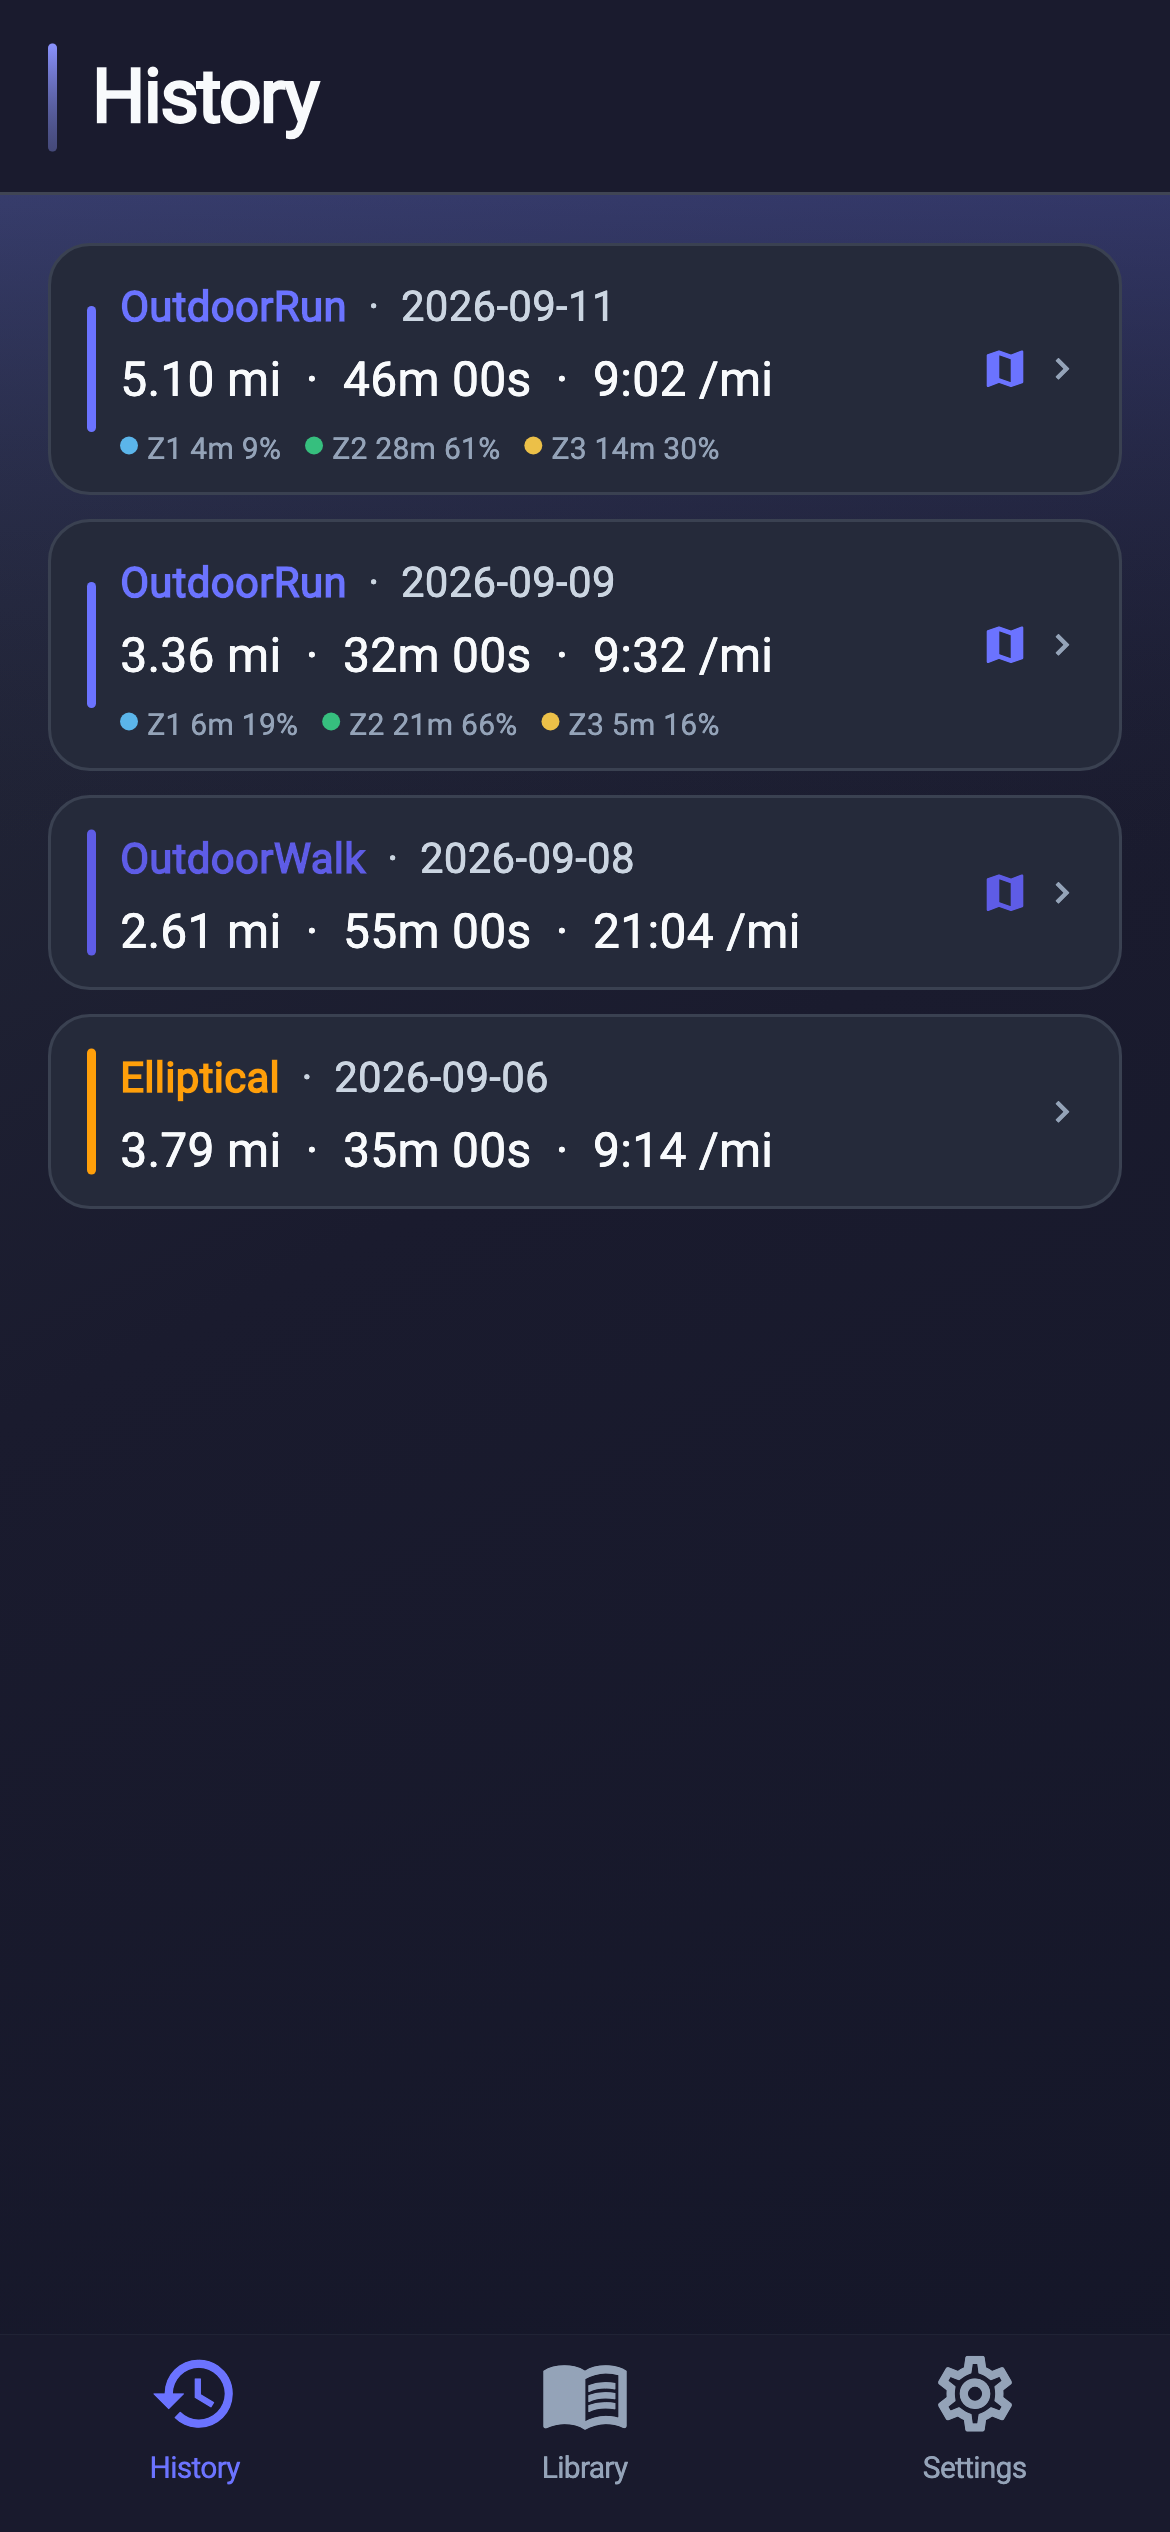
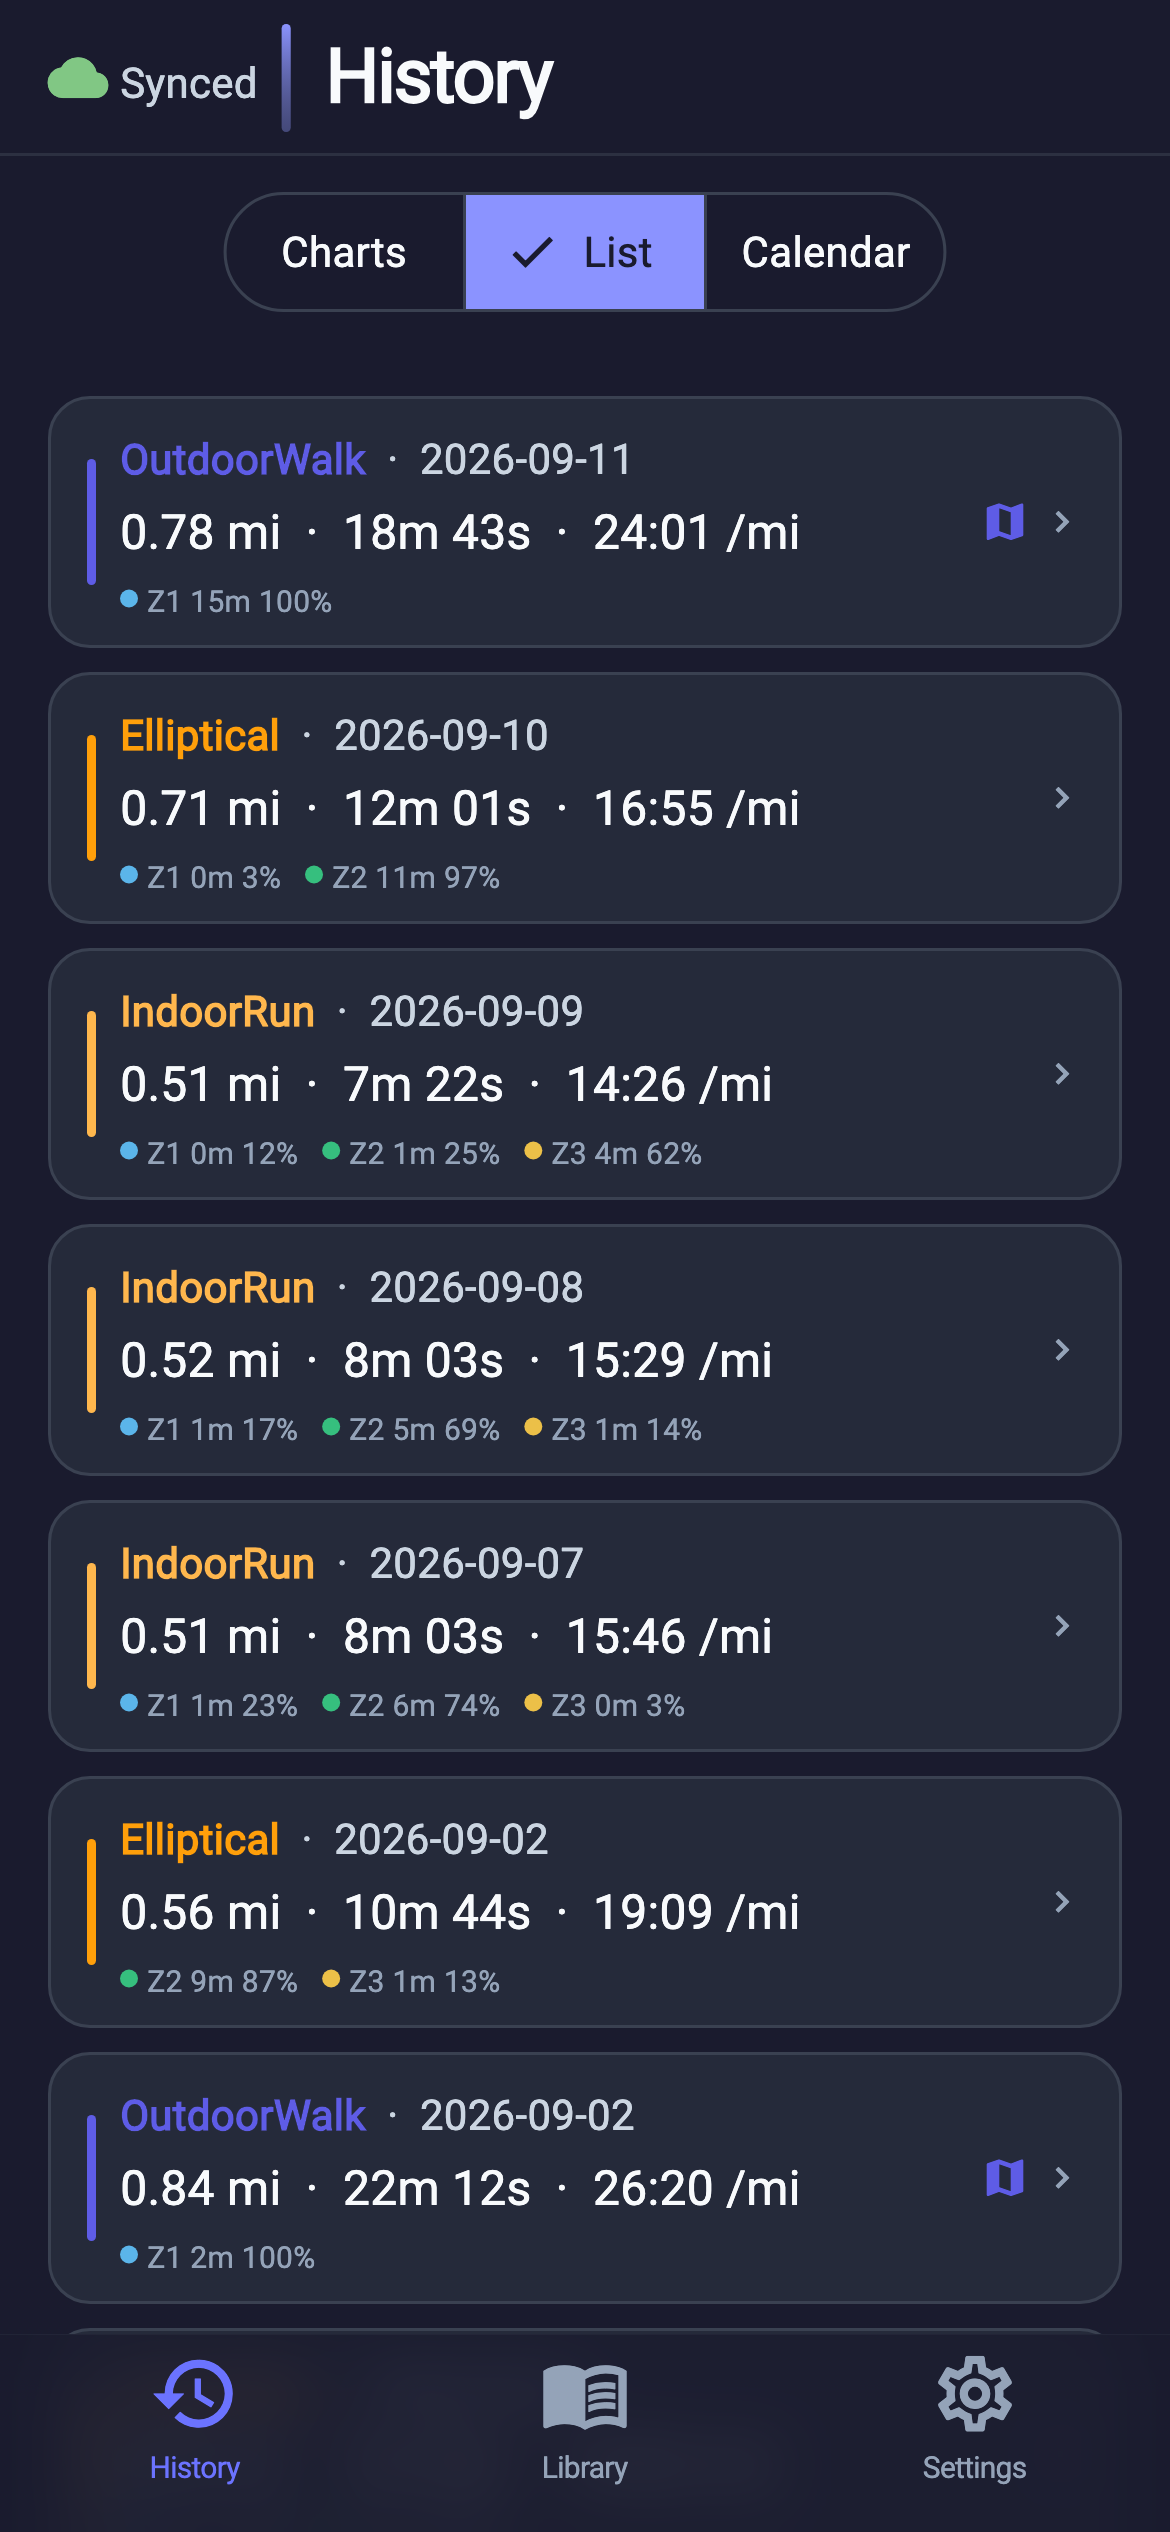
Show real History charts, list, and calendar in the README screenshots.

diff --git a/test/readme_screenshot_generator_test.dart b/test/readme_screenshot_generator_test.dart
@@ -1,48 +1,95 @@
+import 'dart:convert';
+import 'dart:io';
+
 import 'package:ethan_ui/ethan_ui.dart';
 import 'package:flutter/foundation.dart';
 import 'package:flutter/material.dart';
 import 'package:flutter_riverpod/flutter_riverpod.dart';
 import 'package:flutter_test/flutter_test.dart';
-import 'package:workouts/features/history/activity_list/history_activity_list_tab.dart';
+import 'package:workouts/features/cardio/cardio_provider.dart';
 import 'package:workouts/features/history/activity_provider.dart';
+import 'package:workouts/features/history/history_screen.dart';
+import 'package:workouts/models/activity_calendar_day.dart';
 import 'package:workouts/models/activity_item.dart';
-import 'package:workouts/models/cardio_type.dart';
+import 'package:workouts/models/cardio_best_effort.dart';
+import 'package:workouts/models/cardio_calendar_day.dart';
 import 'package:workouts/models/cardio_workout.dart';
 import 'package:workouts/models/hr_zone_time.dart';
+import 'package:workouts/providers/sync_provider.dart';
 import 'package:workouts/services/powersync/powersync_database_provider.dart';
+import 'package:workouts/utils/run_formatting.dart';
 
 const _phoneSize = Size(390, 844);
+
+late _LocalHistorySnapshot _readmeHistory;
 
 void main() {
   setUpAll(() async {
     await ETheme.loadFontsForWidgetTests();
+    _readmeHistory = _LocalHistorySnapshot.load();
   });
 
-  testWidgets('writes history list for README', (tester) async {
-    debugDefaultTargetPlatformOverride = TargetPlatform.iOS;
-    addTearDown(() => tester.binding.setSurfaceSize(null));
-    await tester.binding.setSurfaceSize(_phoneSize);
+  testWidgets('writes History charts for README', (tester) async {
+    await _writeHistoryReadmeScreenshot(
+      tester,
+      screenshotFilename: 'history-charts.png',
+    );
+  });
 
-    try {
+  testWidgets('writes History list for README', (tester) async {
+    await _writeHistoryReadmeScreenshot(
+      tester,
+      tabLabel: 'List',
+      screenshotFilename: 'history.png',
+    );
+  });
+
+  testWidgets('writes History calendar for README', (tester) async {
+    await _writeHistoryReadmeScreenshot(
+      tester,
+      tabLabel: 'Calendar',
+      screenshotFilename: 'history-calendar.png',
+    );
+  });
+}
+
+Future<void> _writeHistoryReadmeScreenshot(
+  WidgetTester tester, {
+  String? tabLabel,
+  required String screenshotFilename,
+}) async {
+  debugDefaultTargetPlatformOverride = TargetPlatform.iOS;
+  addTearDown(() => tester.binding.setSurfaceSize(null));
+  await tester.binding.setSurfaceSize(_phoneSize);
+
+  try {
     await tester.pumpWidget(
       ProviderScope(
         overrides: [
           activityListProvider.overrideWith(
-            (ref) => Stream.value(_overviewCardio()),
+            (ref) => Stream.value(_readmeHistory.activityList),
+          ),
+          activityCalendarDaysProvider.overrideWith(
+            (ref) => Stream.value(_readmeHistory.calendarDays),
+          ),
+          cardioWorkoutsProvider.overrideWith(
+            (ref) => Stream.value(_readmeHistory.cardioWorkouts),
+          ),
+          cardioBestEffortsProvider.overrideWith(
+            (ref) => Stream.value(_readmeHistory.bestEfforts),
           ),
           powerSyncDatabaseProvider.overrideWith(
-            (ref) => Future<Never>.error(StateError('unused in README screenshot')),
+            (ref) => Future<Never>.error(
+              StateError('unused in README screenshot'),
+            ),
           ),
+          syncStateProvider.overrideWith((ref) => SyncState.synced),
         ],
         child: MaterialApp(
           theme: ETheme.material3Dark,
           debugShowCheckedModeBanner: false,
           home: EScaffoldShell(
             contentMaxWidth: double.infinity,
-            appBar: const EAppHeader(
-              title: 'History',
-              automaticallyImplyLeading: false,
-            ),
             bottomBar: ETabBar(
               selectedIndex: 0,
               tabs: const [
@@ -52,82 +99,178 @@ void main() {
               ],
               onSelected: (_) {},
             ),
-            body: const HistoryActivityListTab(),
+            body: const ColoredBox(
+              color: EColors.background,
+              child: HistoryScreen(),
+            ),
           ),
         ),
       ),
     );
     await tester.pumpAndSettle();
+    if (tabLabel != null) {
+      await tester.tap(find.text(tabLabel));
+      await tester.pumpAndSettle();
+    }
     await expectLater(
       find.byType(MaterialApp),
-      matchesGoldenFile('../screenshots/history.png'),
+      matchesGoldenFile('../screenshots/$screenshotFilename'),
     );
-    } finally {
-      debugDefaultTargetPlatformOverride = null;
-    }
-  });
+  } finally {
+    debugDefaultTargetPlatformOverride = null;
+  }
 }
 
-List<ActivityItem> _overviewCardio() {
-  return [
-    ActivityCardio(
-      CardioWorkout(
-        id: 'run-1',
-        externalWorkoutId: 'ext-run-1',
-        activityType: CardioType.outdoorRun,
-        startedAt: DateTime(2026, 9, 11, 6, 32),
-        endedAt: DateTime(2026, 9, 11, 7, 18),
-        durationSeconds: 46 * 60,
-        distanceMeters: 8200,
-        averageHeartRateBpm: 148,
-        hasHrSamples: true,
-        zoneTime: const HrZoneTime(zone1: 240, zone2: 1680, zone3: 840),
-        routeAvailable: true,
-        sourceName: 'Apple Watch',
-      ),
-    ),
-    ActivityCardio(
-      CardioWorkout(
-        id: 'run-2',
-        externalWorkoutId: 'ext-run-2',
-        activityType: CardioType.outdoorRun,
-        startedAt: DateTime(2026, 9, 9, 6, 40),
-        endedAt: DateTime(2026, 9, 9, 7, 12),
-        durationSeconds: 32 * 60,
-        distanceMeters: 5400,
-        averageHeartRateBpm: 142,
-        hasHrSamples: true,
-        zoneTime: const HrZoneTime(zone1: 360, zone2: 1260, zone3: 300),
-        routeAvailable: true,
-        sourceName: 'Apple Watch',
-      ),
-    ),
-    ActivityCardio(
-      CardioWorkout(
-        id: 'walk-1',
-        externalWorkoutId: 'ext-walk-1',
-        activityType: CardioType.outdoorWalk,
-        startedAt: DateTime(2026, 9, 8, 18, 10),
-        endedAt: DateTime(2026, 9, 8, 19, 5),
-        durationSeconds: 55 * 60,
-        distanceMeters: 4200,
-        routeAvailable: true,
-        sourceName: 'Apple Watch',
-      ),
-    ),
-    ActivityCardio(
-      CardioWorkout(
-        id: 'ellip-1',
-        externalWorkoutId: 'ext-ellip-1',
-        activityType: CardioType.elliptical,
-        startedAt: DateTime(2026, 9, 6, 7, 0),
-        endedAt: DateTime(2026, 9, 6, 7, 35),
-        durationSeconds: 35 * 60,
-        distanceMeters: 6100,
-        averageHeartRateBpm: 131,
-        routeAvailable: false,
-        sourceName: 'Apple Watch',
-      ),
-    ),
+class _LocalHistorySnapshot {
+  const _LocalHistorySnapshot({
+    required this.cardioWorkouts,
+    required this.calendarDays,
+    required this.bestEfforts,
+  });
+
+  final List<CardioWorkout> cardioWorkouts;
+  final List<ActivityCalendarDay> calendarDays;
+  final List<CardioBestEffort> bestEfforts;
+
+  List<ActivityItem> get activityList => [
+    for (final workout in cardioWorkouts) ActivityCardio(workout),
   ];
+
+  static _LocalHistorySnapshot load() {
+    final dbPath = _mostRecentlyWrittenPowerSyncFile().path;
+    final workouts = _query(dbPath, _cardioWorkoutsSql)
+        .map(_intsFromSqliteJson)
+        .map(CardioWorkout.fromRow)
+        .toList();
+    final calendarDays = _query(dbPath, _calendarDaysSql)
+        .map(_intsFromSqliteJson)
+        .map(CardioCalendarDay.fromRow)
+        .map(_activityDayFromCardio)
+        .toList();
+    final bestEfforts = [
+      for (final row in _query(dbPath, _bestEffortsSql).map(_intsFromSqliteJson))
+        if (DistanceBucket.fromMeters((row['distance_meters'] as num).toDouble()) !=
+            null)
+          CardioBestEffort.fromRow(row),
+    ];
+    return _LocalHistorySnapshot(
+      cardioWorkouts: workouts,
+      calendarDays: calendarDays,
+      bestEfforts: bestEfforts,
+    );
+  }
+
+  static ActivityCalendarDay _activityDayFromCardio(CardioCalendarDay day) =>
+      ActivityCalendarDay(
+        date: day.date,
+        outdoorRunDistanceMeters: day.outdoorRunDistanceMeters,
+        totalCardioDurationSeconds: day.totalDurationSeconds,
+        cardioZoneTime: day.zoneTime,
+        cardioHasHrData: day.hasHrData,
+        cardioCount: day.workoutCount,
+        totalSessionDurationSeconds: 0,
+        sessionZoneTime: HrZoneTime.zero,
+        sessionCount: 0,
+      );
+
+  static List<Map<String, dynamic>> _query(String dbPath, String sql) {
+    final result = Process.runSync('sqlite3', ['-json', dbPath, sql]);
+    if (result.exitCode != 0) {
+      throw StateError('sqlite3 failed: ${result.stderr}');
+    }
+    final stdout = result.stdout.toString().trim();
+    if (stdout.isEmpty) return const [];
+    return (jsonDecode(stdout) as List<dynamic>).cast<Map<String, dynamic>>();
+  }
+
+  static Map<String, dynamic> _intsFromSqliteJson(Map<String, dynamic> row) {
+    return {
+      for (final entry in row.entries)
+        entry.key: switch (entry.value) {
+          final double number when number == number.roundToDouble() =>
+            number.toInt(),
+          _ => entry.value,
+        },
+    };
+  }
+
+  static const _cardioWorkoutsSql = '''
+        SELECT
+          w.*,
+          COALESCE(m.zone1_seconds, 0) AS zone1_seconds,
+          COALESCE(m.zone2_seconds, 0) AS zone2_seconds,
+          COALESCE(m.zone3_seconds, 0) AS zone3_seconds,
+          COALESCE(m.zone4_seconds, 0) AS zone4_seconds,
+          COALESCE(m.zone5_seconds, 0) AS zone5_seconds,
+          COALESCE(m.has_hr_samples, 0) AS has_hr_samples,
+          m.pace_seconds_per_mile,
+          m.meters_per_heartbeat,
+          m.cardiac_drift_percent,
+          COALESCE(m.has_distance_samples, 0) AS has_distance_samples,
+          m.distance_origin,
+          m.fitness_confidence
+        FROM cardio_workouts w
+        LEFT JOIN cardio_computed_metrics m ON m.id = w.id
+        ORDER BY w.started_at DESC
+        ''';
+
+  static const _calendarDaysSql = '''
+        SELECT
+          DATE(w.started_at, 'localtime') AS day,
+          COALESCE(SUM(CASE WHEN w.activity_type = 'outdoorRun' THEN w.distance_meters END), 0) AS outdoor_run_distance_meters,
+          SUM(w.duration_seconds)           AS total_duration_seconds,
+          COALESCE(SUM(m.zone1_seconds), 0) AS total_zone1_seconds,
+          COALESCE(SUM(m.zone2_seconds), 0) AS total_zone2_seconds,
+          COALESCE(SUM(m.zone3_seconds), 0) AS total_zone3_seconds,
+          COALESCE(SUM(m.zone4_seconds), 0) AS total_zone4_seconds,
+          COALESCE(SUM(m.zone5_seconds), 0) AS total_zone5_seconds,
+          MAX(COALESCE(m.has_hr_samples, 0)) AS has_hr_data,
+          COUNT(w.id)                       AS workout_count
+        FROM cardio_workouts w
+        LEFT JOIN cardio_computed_metrics m ON m.id = w.id
+        GROUP BY day
+        ORDER BY day ASC
+        ''';
+
+  static const _bestEffortsSql = '''
+        SELECT be.distance_meters, be.elapsed_seconds, w.started_at, w.activity_type
+        FROM cardio_best_efforts be
+        JOIN cardio_workouts w ON w.id = be.workout_id
+        ORDER BY w.started_at ASC
+        ''';
+
+  static File _mostRecentlyWrittenPowerSyncFile() {
+    final home = Platform.environment['HOME'];
+    if (home == null || home.isEmpty) {
+      throw StateError('HOME is unset; cannot find the local workouts DB.');
+    }
+    final found = Process.runSync('find', [
+      '$home/Documents',
+      '$home/Library/Developer/CoreSimulator/Devices',
+      '-name',
+      'powersync.db',
+    ]);
+    if (found.exitCode != 0) {
+      throw StateError('find powersync.db failed: ${found.stderr}');
+    }
+    final paths = found.stdout
+        .toString()
+        .split('\n')
+        .map((path) => path.trim())
+        .where((path) => path.isNotEmpty)
+        .map(File.new)
+        .where((file) => file.existsSync())
+        .toList();
+    if (paths.isEmpty) {
+      throw StateError(
+        'No local powersync.db found. Run Workouts on this Mac or the '
+        'simulator once so README screenshots can read real history.',
+      );
+    }
+    paths.sort(
+      (left, right) =>
+          right.statSync().modified.compareTo(left.statSync().modified),
+    );
+    return paths.first;
+  }
 }

diff --git a/README.md b/README.md
@@ -4,7 +4,11 @@ Personal workout tracker with local-first sync.
 
 ### Screenshots
 
-![History](screenshots/history.png)
+![History charts](screenshots/history-charts.png)
+
+![History list](screenshots/history.png)
+
+![History calendar](screenshots/history-calendar.png)
 
 ## Stack
 
